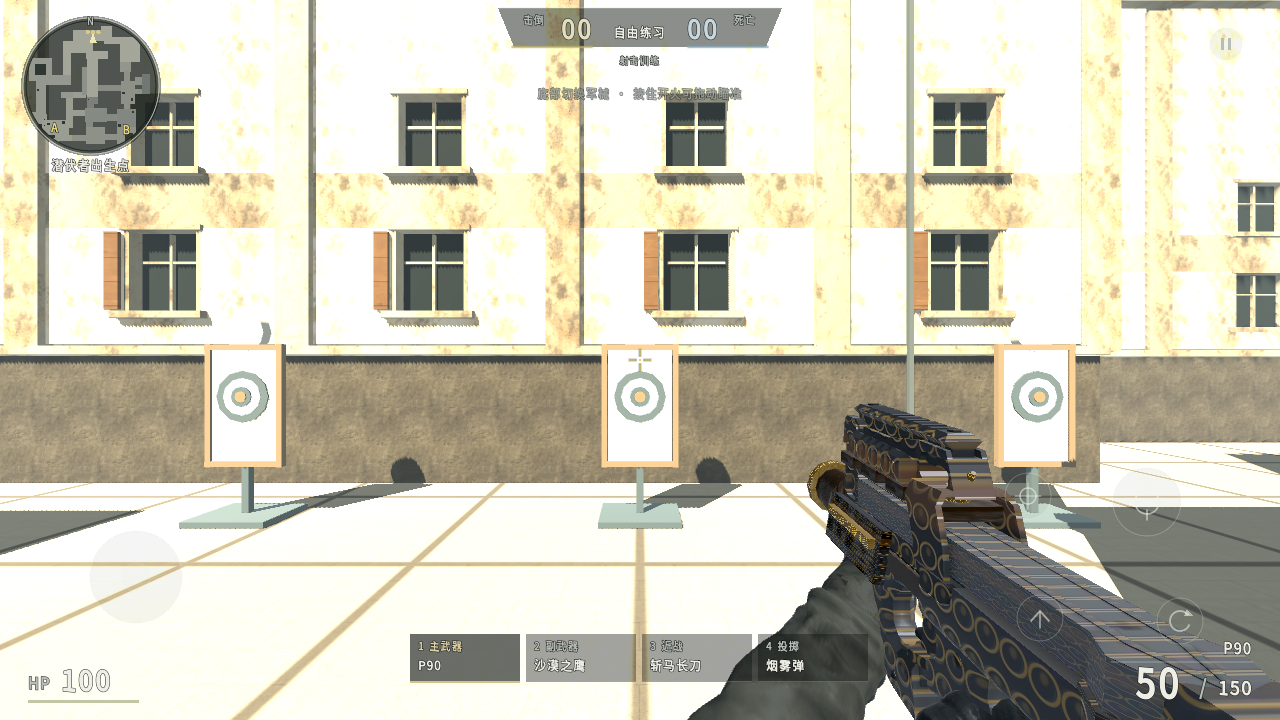
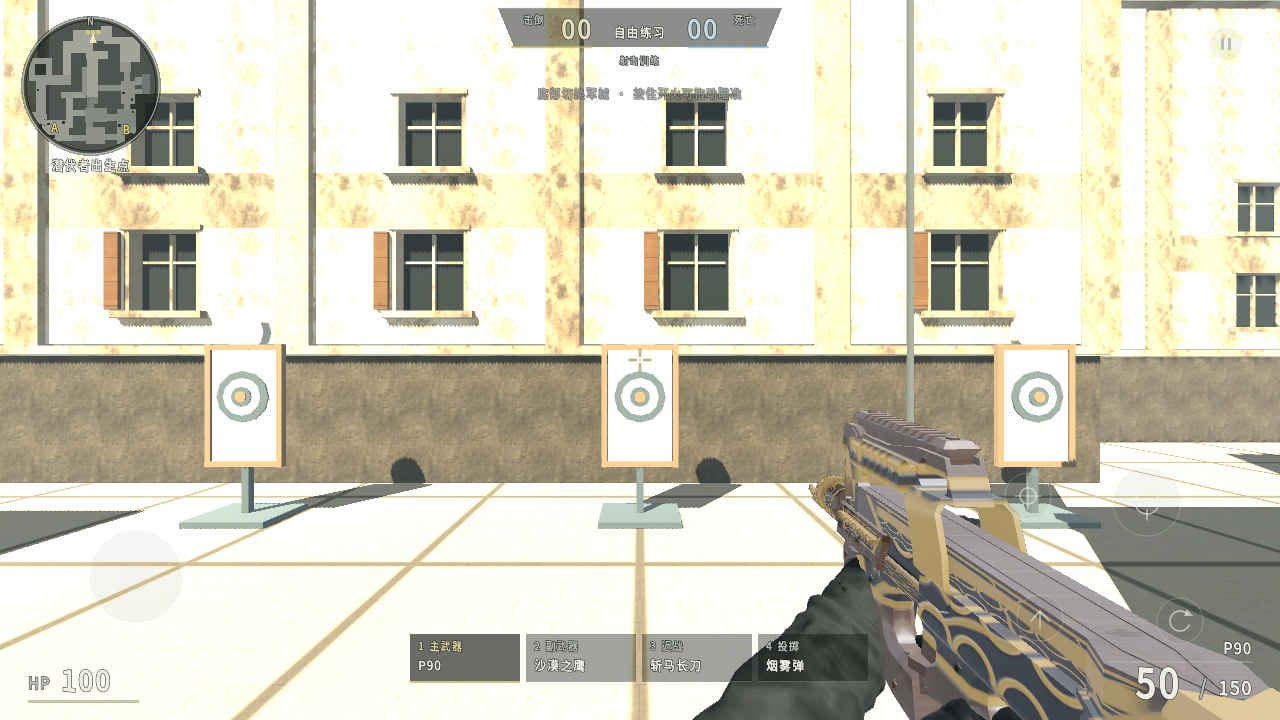
release: publish Range Zero 0.4.3 gunsmith skins, coaxial kits, and random bot drops

Changed region(s): [[0.625, 0.55, 1.0, 1.0], [0.5625, 0.8556, 0.625, 0.9472], [0.5312, 0.9778, 0.5625, 1.0]]

diff --git a/CONTEXT.md b/CONTEXT.md
@@ -2,14 +2,12 @@
 
 更新：2026-10-22。
 
[2 lines of base64/hex data omitted]
 
-本版为 11 款非原装皮肤启用自适应 3D 立体改装套件（龙脊装甲/重型龙口制退器、一体式战术消音管+侧置激光指示器+全息瞄具护罩、军规多孔制退器+下挂战术枪灯、赛博流线护翼+能量导管）与凹凸浮雕法线、碳纤维斜纹、阳极氧化金属高光，重做 M134 加特林与 RPG-7 火箭筒模型，清理 AK-47 底部冗余备用弹匣，并加入持枪转向惯性、旋转抛壳、四翼星形枪口焰、多样化人机掉枪、连杀/爆头反馈与黑色城镇包点细节。660 张预览来自实机视口。
+本版重构第一人称武器 PBR 着色器（加入 3D 影棚天际线镜面反射、微米拉丝金属、机匣/护木/握把三段式装甲分色，并用有机分形噪声 FBM 与 Voronoi 晶体/裂纹重写大马士革流金龙鳞、二西莫夫机甲斜切、多普勒星云虹彩紫晶、熔岩裂纹等 11 款涂装），将 3D 改装套件（枪管下挂刺刀、同轴消音管、多孔制退器、紧凑侧置激光盒、赛博导流护翼）严密贴合枪管轴线，并修复人机固定掉枪问题——3 名人机在每次开局和复活时从 33 把主武器及 12 款皮肤中动态随机抽取、死亡后掉落带皮肤的真实 3D 武器供拾取。660 张预览来自实机视口。
 
 32 项玩法、186 项军械、40 项地图、23 项更新规则、5 项真实 HTTP、26 项 Android 基础与 18 项军械检查通过；41 枪四状态共 164 张实际截图通过缺陷审阅。采集包与正式 APK 的 217 项渲染资源一致，27 个生产脚本一致。55 件装备各 12 外观并恢复原装，共 715 次切换通过。
 
-同一原签名 APK 已实测从 0.4.1 覆盖安装，四槽装备与已选皮肤保留，升级期间不清数据。实测为专用 Android API35/ARM64 无窗口模拟器，未测用户手机。加特林和火箭筒是精细程序化组合体；低模、共享手指与程序化动画局限仍在。A 大烘焙模型不二次受光。不代表 CF 原作品质或用户视觉认可。
+同一原签名 APK 已实测从 0.4.2 覆盖安装，四槽装备与已选皮肤保留，升级期间不清数据。实测为专用 Android API35/ARM64 无窗口模拟器，未测用户手机。加特林和火箭筒是精细程序化组合体；低模、共享手指与程序化动画局限仍在。A 大烘焙模型不二次受光。不代表 CF 原作品质或用户视觉认可。
 
 普通启动/恢复和对局不联网；主动查新最多两路并发、整体约 10 秒，下载通过系统浏览器，可选三条固定镜像或 GitHub 直连。源码、工具、日志、口令及签名材料不得进入此仓库。
-
-发布后匿名读取三条镜像、GitHub Release 与 raw 五条清单均与本版一致；官方 206 Range、加速二（`ghfast.top`）完整 240,355,936 字节 APK 下载/哈希核对通过，本机耗时 137.852 秒。最终 APK 在专用 Android 模拟器主动查新约 0.815 秒读到 0.4.2，启动不查新。测试设备已停止，未操作用户手机。

diff --git a/README.md b/README.md
@@ -4,13 +4,13 @@ Android 离线第一人称射击试玩。自由移动、手动瞄准、开火换
 
 本仓库用于安装包分发和版本检查。
 
-- [下载 0.4.2 APK，约 229 MiB](https://github.com/junnhwan/range-zero/releases/download/v0.4.2/RangeZero-0.4.2-android.apk)
-- [加速下载](https://gh-proxy.org/https://github.com/junnhwan/range-zero/releases/download/v0.4.2/RangeZero-0.4.2-android.apk)
-- [版本说明与备用文件](https://github.com/junnhwan/range-zero/releases/tag/v0.4.2)
+- [下载 0.4.3 APK，约 230 MiB](https://github.com/junnhwan/range-zero/releases/download/v0.4.3/RangeZero-0.4.3-android.apk)
+- [加速下载](https://gh-proxy.org/https://github.com/junnhwan/range-zero/releases/download/v0.4.3/RangeZero-0.4.3-android.apk)
+- [版本说明与备用文件](https://github.com/junnhwan/range-zero/releases/tag/v0.4.3)
 
 ## 试玩内容
 
-0.4.2 为 11 款非原装皮肤启用自适应 3D 立体改装套件（龙脊护甲、消音器、全息镜、激光盒、制退器、赛博护翼）与浮雕/碳纤维/阳极氧化材质，重做 M134 加特林与 RPG-7 火箭筒造型，并加入持枪惯性、旋转抛壳、四翼枪口焰、连杀爆头反馈与黑色城镇包点细节。
+0.4.3 重构全武器第一人称 PBR 皮肤着色器（加入 3D 影棚天际线镜面反射、微米拉丝金属、三段式装甲分色，并用 FBM 有机噪声与 Voronoi 晶体/裂纹重写大马士革流金龙鳞、二西莫夫斜切、多普勒星云紫晶、熔岩裂纹等 11 款涂装），将 3D 改装套件（枪管下挂刺刀、同轴消音管、制退器、紧凑激光盒、赛博护翼）严密贴合枪管中心轴，并让人机在 33 把主武器与 12 款皮肤中动态随机抽取、死亡后掉落对应涂装武器供拾取。
 
 - 一张黑色城镇简化重建练场，保留 A/B 地标、高低差、车厢、拱廊和水塔；提供靶场与 5 分钟人机对局。
 - 55 种军械：41 把枪、11 种近战、破片/烟雾/闪光三类投掷。同一枪的外观不重复计数，全部免费。
@@ -28,12 +28,12 @@ Android 离线第一人称射击试玩。自由移动、手动瞄准、开火换
 
 ## 安装与更新
 
-Android 7.0 起，需支持 OpenGL ES 3.0。下载 APK 后直接覆盖安装，可保留本机设置和旧版皮肤；请勿先卸载。0.4.2 沿用原包名和原签名，已实测从 0.4.1 覆盖升级，四槽装备和各枪皮肤保留。
+Android 7.0 起，需支持 OpenGL ES 3.0。下载 APK 后直接覆盖安装，可保留本机设置和旧版皮肤；请勿先卸载。0.4.3 沿用原包名和原签名，已实测从 0.4.2 覆盖升级，四槽装备和各枪皮肤保留。
 
 “操作设置 → 检查更新”限时尝试加速线路和官方源；发现更新后选择加速下载一/二/三或 GitHub 直连，在浏览器下载并安装，失败可返回换线。对局与本地资源无需联网，启动不自动查新。
 
 ## 更新清单与许可
 
[2 lines of base64/hex data omitted]
 
 模型、贴图、字体和引擎的署名及许可保存在 APK 的“关于与许可”和 `THIRD_PARTY_NOTICES.txt` 中。游戏源码、工具和签名材料不在本公开仓库。
